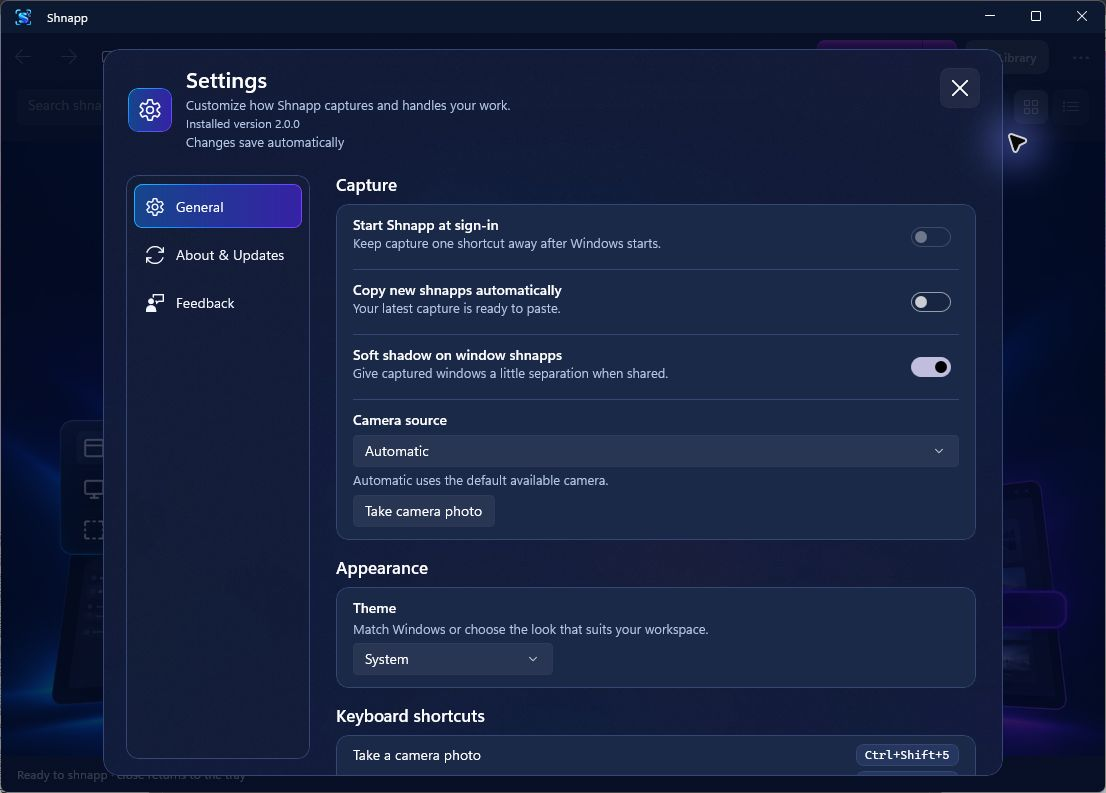
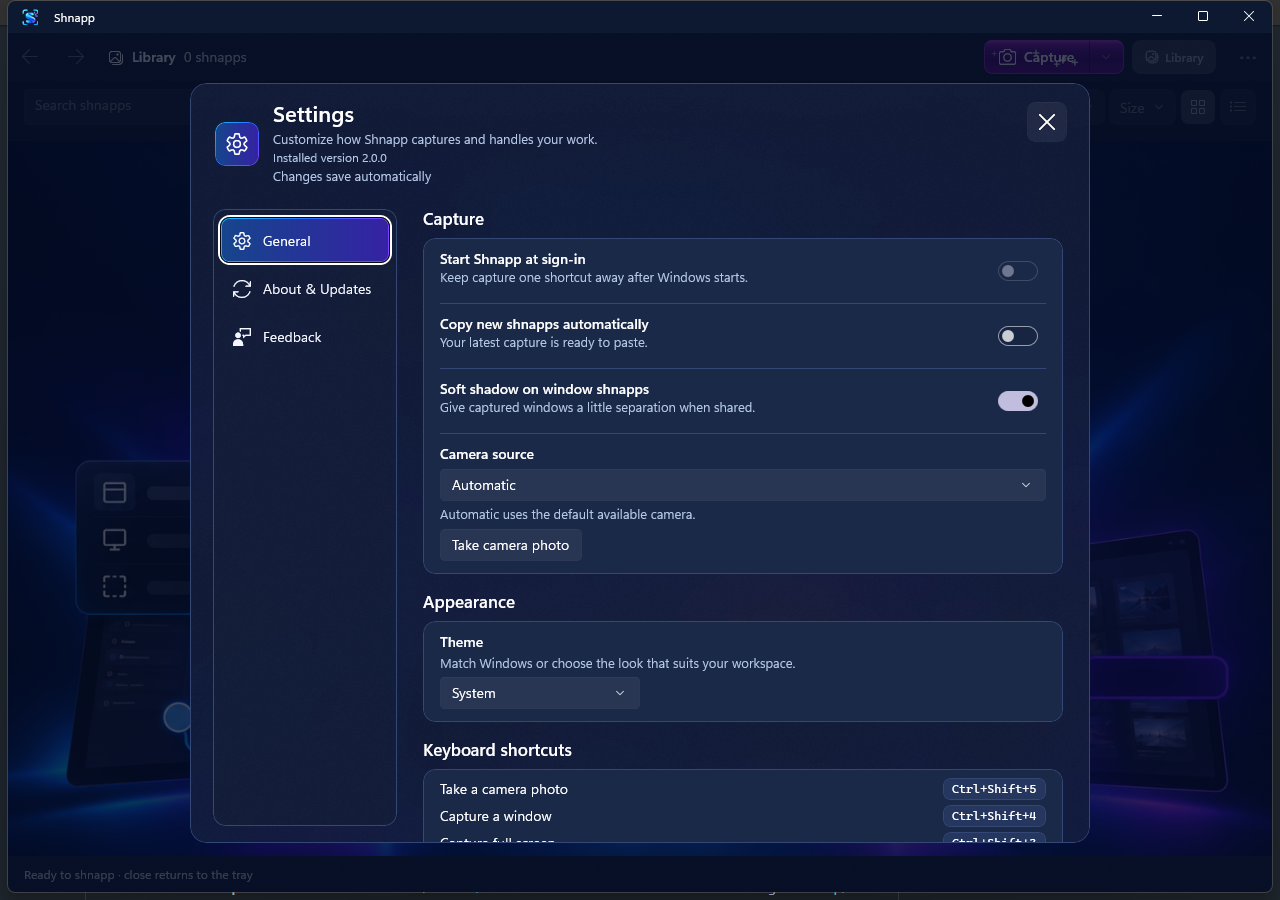
Highlight Shnapp features and camera capture (#38)

diff --git a/src/Shnapp.Site/src/styles/global.css b/src/Shnapp.Site/src/styles/global.css
@@ -84,6 +84,19 @@ p { line-height: 1.6; }
 .fact-band p { display: flex; align-items: center; gap: .7rem; margin: 0; color: #284365; font-size: .9rem; font-weight: 680; line-height: 1.3; }
 .fact-dot { display: block; flex: none; width: 9px; height: 9px; border: 2px solid var(--blue); border-radius: 50%; background: #fff; }
 
+/* Feature overview */
+.feature-overview { background: #eef5ff; }
+.feature-overview-inner { display: grid; grid-template-columns: minmax(0,.78fr) minmax(0,1.22fr); gap: clamp(3rem,7vw,8rem); }
+.feature-overview-intro h2 { max-width: 12ch; font-size: clamp(3.1rem,5vw,5.25rem); line-height: 1.07; }
+.feature-overview-intro p { max-width: 38ch; margin: 1.5rem 0 0; color: #475d7a; font-size: 1.08rem; }
+.feature-overview-list { border-top: 1px solid #bccce2; }
+.feature-overview-list a { display: grid; grid-template-columns: minmax(0,.46fr) minmax(0,1fr) 24px; align-items: start; gap: clamp(1rem,2.5vw,2rem); padding: 1.65rem .2rem; border-bottom: 1px solid #bccce2; color: var(--ink); text-decoration: none; transition: color .2s ease, padding-left .2s ease; }
+.feature-overview-list a:hover { padding-left: .6rem; color: var(--blue-deep); }
+.feature-overview-list h3 { font-size: clamp(1.45rem,2.1vw,1.85rem); line-height: 1.2; }
+.feature-overview-list p { max-width: 43ch; margin: .1rem 0 0; color: #415773; font-size: .98rem; line-height: 1.5; }
+.feature-overview-list svg { width: 24px; height: 24px; margin-top: .2rem; color: var(--blue-deep); transition: transform .2s ease; }
+.feature-overview-list a:hover svg { transform: translate(3px,-3px); }
+
 /* Demonstration */
 .opening-section { background: #fff; }
 .opening-copy { display: grid; grid-template-columns: 1.15fr .7fr; align-items: end; gap: 4rem; margin-bottom: 3.1rem; }
@@ -128,6 +141,16 @@ p { line-height: 1.6; }
 .shortcut { display: inline-flex; align-items: center; gap: .24rem; white-space: nowrap; }
 .shortcut kbd { min-width: 2.25rem; padding: .42rem .58rem .5rem; border: 1px solid #b8c7d9; border-bottom-width: 3px; border-radius: 8px; background: #f7f9fc; color: #254061; text-align: center; font: 650 .8rem 'Cascadia Mono', Consolas, monospace; }
 .shortcut > span { color: #798aa1; font-size: .8rem; }
+.camera-spotlight { display: grid; grid-template-columns: minmax(0,1.1fr) minmax(0,.9fr); align-items: end; gap: clamp(2rem,5vw,5rem); margin-top: clamp(3rem,5vw,5rem); padding: clamp(2rem,4.2vw,4rem); border-radius: 28px; background: linear-gradient(128deg,#112f60,#172968 60%,#302776); color: #fff; box-shadow: 0 20px 48px rgba(19,35,91,.16); }
+.camera-spotlight-icon { display: block; width: 44px; height: 44px; margin-bottom: 1.5rem; color: #80dcff; }
+.camera-spotlight h3 { max-width: 13ch; font-size: clamp(2.65rem,4vw,4.3rem); line-height: 1.08; }
+.camera-spotlight-copy > p { max-width: 59ch; margin: 1.3rem 0 0; color: #e0eaff; font-size: 1.02rem; }
+.camera-spotlight-copy .camera-availability { margin-top: 1rem; color: #b7c9ed; font-size: .88rem; }
+.camera-flow { margin: 0; padding: 0; border-top: 1px solid rgba(210,230,255,.32); list-style: none; }
+.camera-flow li { display: grid; grid-template-columns: 34px minmax(0,.6fr) minmax(0,1fr); align-items: center; gap: .8rem; padding: 1.3rem 0; border-bottom: 1px solid rgba(210,230,255,.32); }
+.camera-flow li > span { display: grid; place-items: center; width: 30px; height: 30px; border: 1px solid rgba(162,220,255,.65); border-radius: 50%; color: #a9e8ff; font-size: .86rem; font-weight: 700; font-variant-numeric: tabular-nums; }
+.camera-flow strong { font-size: 1.08rem; }
+.camera-flow small { color: #c6d8f5; font-size: .82rem; line-height: 1.35; }
 .capture-app-figure { margin: clamp(3rem, 5vw, 5rem) 0 0; padding: clamp(1rem, 3vw, 2.6rem); border-radius: 28px; background: linear-gradient(135deg, #112a65, #362785 72%, #4d2d98); }
 .capture-app-figure > a { display: block; overflow: hidden; border-radius: 13px; box-shadow: 0 24px 54px rgba(1, 10, 39, .32); }
 .capture-app-figure img { display: block; width: 100%; transition: transform .45s cubic-bezier(.16,1,.3,1); }
@@ -199,6 +222,7 @@ p { line-height: 1.6; }
   .feature-copy h2 { max-width: 15ch; }
   .capture-row { grid-template-columns: .55fr 1fr; }
   .shortcut { grid-column: 2; }
+  .camera-spotlight { grid-template-columns: 1fr; }
 }
 
 @media (max-width: 760px) {
@@ -228,6 +252,9 @@ p { line-height: 1.6; }
   .hero-actions { margin-top: 1.5rem; }
   .hero-art-caption { right: 1rem; bottom: .8rem; font-size: .68rem; }
   .fact-band-inner { grid-template-columns: repeat(2,1fr); padding-block: 1.25rem; }
+  .feature-overview-inner { grid-template-columns: 1fr; gap: 2.25rem; }
+  .feature-overview-intro h2 { max-width: 14ch; }
+  .feature-overview-intro p { max-width: 55ch; }
   .opening-copy, .capture-heading, .faq-layout { grid-template-columns: 1fr; gap: 1rem; }
   .opening-copy h2, .capture-heading h2, .feature-copy h2, .faq-intro h2 { font-size: clamp(2.8rem, 7.8vw, 4.2rem); }
   .opening-copy { margin-bottom: 2rem; }
@@ -275,6 +302,15 @@ p { line-height: 1.6; }
   .capture-row p { font-size: .91rem; }
   .shortcut { grid-column: 1; margin-top: .35rem; }
   .shortcut kbd { font-size: .72rem; }
+  .feature-overview-intro h2 { font-size: 2.6rem; }
+  .feature-overview-list a { grid-template-columns: 1fr 24px; gap: .55rem; padding-block: 1.35rem; }
+  .feature-overview-list p { grid-row: 2; grid-column: 1 / -1; margin: 0; }
+  .feature-overview-list svg { grid-row: 1; grid-column: 2; }
+  .camera-spotlight { padding: 1.8rem 1.4rem; border-radius: 20px; }
+  .camera-spotlight h3 { font-size: 2.55rem; }
+  .camera-flow li { grid-template-columns: 34px 1fr; gap: .15rem .8rem; padding-block: 1rem; }
+  .camera-flow li > span { grid-row: span 2; }
+  .camera-flow small { grid-column: 2; }
   .privacy-feature p { font-size: 1rem; }
   .final-cta-inner { padding: 2.25rem 1.5rem; border-radius: 22px; }
   .final-cta h2 { font-size: 2.8rem; }
